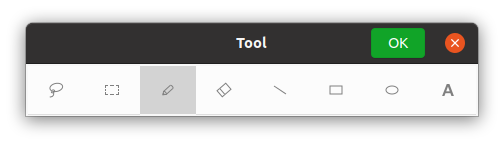
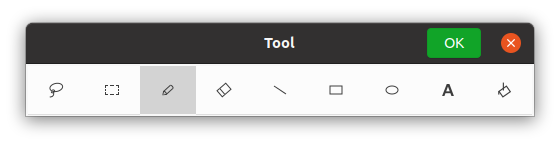
Update documents for the flood fill tool
docs/en/tool.png
docs/en/usage.html
docs/en/usage.md
docs/ja/tool.png
docs/ja/usage.html
docs/ja/usage.md

diff --git a/docs/ja/usage.html b/docs/ja/usage.html
@@ -106,6 +106,10 @@ thead tr th:first-child, tbody tr td:first-child {
 <td><img alt="テキスト" src="../figures/text-symbolic.svg"> テキスト<br><b>[T]</b></td>
 <td>&#x3000;テキストをタイプします。<br>&#x3000;まず、テキストをタイプしたい<ruby>位置<rp>(</rp><rt>いち</rt><rp>)</rp></ruby>をクリックします。つぎにキーボードで<ruby>文字<rp>(</rp><rt>もじ</rt><rp>)</rp></ruby>を<ruby>入力<rp>(</rp><rt>にゅうりょく</rt><rp>)</rp></ruby>します。<br>&#x3000;テキストを<ruby>移動<rp>(</rp><rt>いどう</rt><rp>)</rp></ruby>、<ruby>拡大<rp>(</rp><rt>かくだい</rt><rp>)</rp></ruby>、<ruby>縮小<rp>(</rp><rt>しゅくしょう</rt><rp>)</rp></ruby>することもできます。<ruby>入力<rp>(</rp><rt>にゅうりょく</rt><rp>)</rp></ruby>したテキストの<ruby>部分<rp>(</rp><rt>ぶぶん</rt><rp>)</rp></ruby>にマウスカーソルを<ruby>移動<rp>(</rp><rt>いどう</rt><rp>)</rp></ruby>してドラッグします。<br>• [Shift]キーをおしながらドラッグすると、テキストの<ruby>形<rp>(</rp><rt>かたち</rt><rp>)</rp></ruby>をかえずに、うごかす<ruby>方向<rp>(</rp><rt>ほうこう</rt><rp>)</rp></ruby>を<ruby>制限<rp>(</rp><rt>せいげん</rt><rp>)</rp></ruby>できます。<br>• [Escape]キーをおすと、いまの<ruby>入力<rp>(</rp><rt>にゅうりょく</rt><rp>)</rp></ruby>をおわらせられます。</td>
 </tr>
+<tr>
+<td><img alt="&lt;ruby&gt;塗&lt;rp&gt;(&lt;/rp&gt;&lt;rt&gt;ぬ&lt;/rt&gt;&lt;rp&gt;)&lt;/rp&gt;&lt;/ruby&gt;りつぶし" src="../figures/floodfill-symbolic.svg"> <ruby>塗<rp>(</rp><rt>ぬ</rt><rp>)</rp></ruby>りつぶし</td>
+<td>&#x3000;<ruby>囲<rp>(</rp><rt>かこ</rt><rp>)</rp></ruby>まれている<ruby>範囲<rp>(</rp><rt>はんい</rt><rp>)</rp></ruby>を<ruby>塗<rp>(</rp><rt>ぬ</rt><rp>)</rp></ruby>りつぶします。<br>&#x3000;<ruby>塗<rp>(</rp><rt>ぬ</rt><rp>)</rp></ruby>りつぶしたい<ruby>範囲<rp>(</rp><rt>はんい</rt><rp>)</rp></ruby>のうちがわを、どこでもよいのでクリックします。</td>
+</tr>
 </tbody>
 </table>
 <h2>スタイル</h2>

diff --git a/docs/en/usage.html b/docs/en/usage.html
@@ -116,6 +116,10 @@ you can choose a tool simply typing the key listed in the first column in the ta
 <td><img alt="Text" src="../figures/text-symbolic.svg"> Text<br><b>[T]</b></td>
 <td>Type text.<br>Click where you want to add text. Then type your text.<br>You can move, stretch or shrink the text; position the mouse cursor around the text and drag.<br>• Use the [Shift] key to constrain the movement and/or to maintain the proportion of the text.<br>• Use the [Escape] key to finish typing.</td>
 </tr>
+<tr>
+<td><img alt="Flood Fill" src="../figures/floodfill-symbolic.svg"> Flood Fill</td>
+<td>Fill an outlined area.<br>Click in any outlined area you want to fill.</td>
+</tr>
 </tbody>
 </table>
 <h2>Style</h2>

diff --git a/docs/ja/usage.md b/docs/ja/usage.md
@@ -55,6 +55,7 @@ $ esrille-paint [ファイル名]...
 ![四角形しかくけい](../figures/rectangle-symbolic.svg) 四角形しかくけい | 　ドラッグして四角形しかくけいをかきます。四角形しかくけいのおおきさは、ドラッグをやめたときのおおきさになります。<br>• [Shift]キーをおさえながらドラッグすると、正方形せいほうけいをかけます。
 ![楕円だえん形けい](../figures/oval-symbolic.svg) 楕円だえん形けい | 　ドラッグして楕円だえんをかきます。楕円だえんのおおきさは、ドラッグをやめたときのおおきさになります。<br>• [Shift]キーをおさえながらドラッグすると、円えんをかけます。
 ![テキスト](../figures/text-symbolic.svg) テキスト<br><b>[T]</b> | 　テキストをタイプします。<br>　まず、テキストをタイプしたい位置いちをクリックします。つぎにキーボードで文字もじを入力にゅうりょくします。<br>　テキストを移動いどう、拡大かくだい、縮小しゅくしょうすることもできます。入力にゅうりょくしたテキストの部分ぶぶんにマウスカーソルを移動いどうしてドラッグします。<br>• [Shift]キーをおしながらドラッグすると、テキストの形かたちをかえずに、うごかす方向ほうこうを制限せいげんできます。<br>• [Escape]キーをおすと、いまの入力にゅうりょくをおわらせられます。
+![塗ぬりつぶし](../figures/floodfill-symbolic.svg) 塗ぬりつぶし | 　囲かこまれている範囲はんいを塗ぬりつぶします。<br>　塗ぬりつぶしたい範囲はんいのうちがわを、どこでもよいのでクリックします。
 
 ## スタイル
 

diff --git a/docs/en/usage.md b/docs/en/usage.md
@@ -63,6 +63,7 @@ Tool | Description
 ![Rectangle](../figures/rectangle-symbolic.svg) Rectangle | Draw a rectangle as you drag. The drawing is completed when you finish dragging.<br>• Use the [Shift] key to draw squares.
 ![Oval](../figures/oval-symbolic.svg) Oval | Draw an oval as you drag. The drawing is completed when you finish dragging.<br>• Use the [Shift] key to draw circles.
 ![Text](../figures/text-symbolic.svg) Text<br><b>[T]</b> | Type text.<br>Click where you want to add text. Then type your text.<br>You can move, stretch or shrink the text; position the mouse cursor around the text and drag.<br>• Use the [Shift] key to constrain the movement and/or to maintain the proportion of the text.<br>• Use the [Escape] key to finish typing.
+![Flood Fill](../figures/floodfill-symbolic.svg) Flood Fill | Fill an outlined area.<br>Click in any outlined area you want to fill.
 
 ## Style
 
